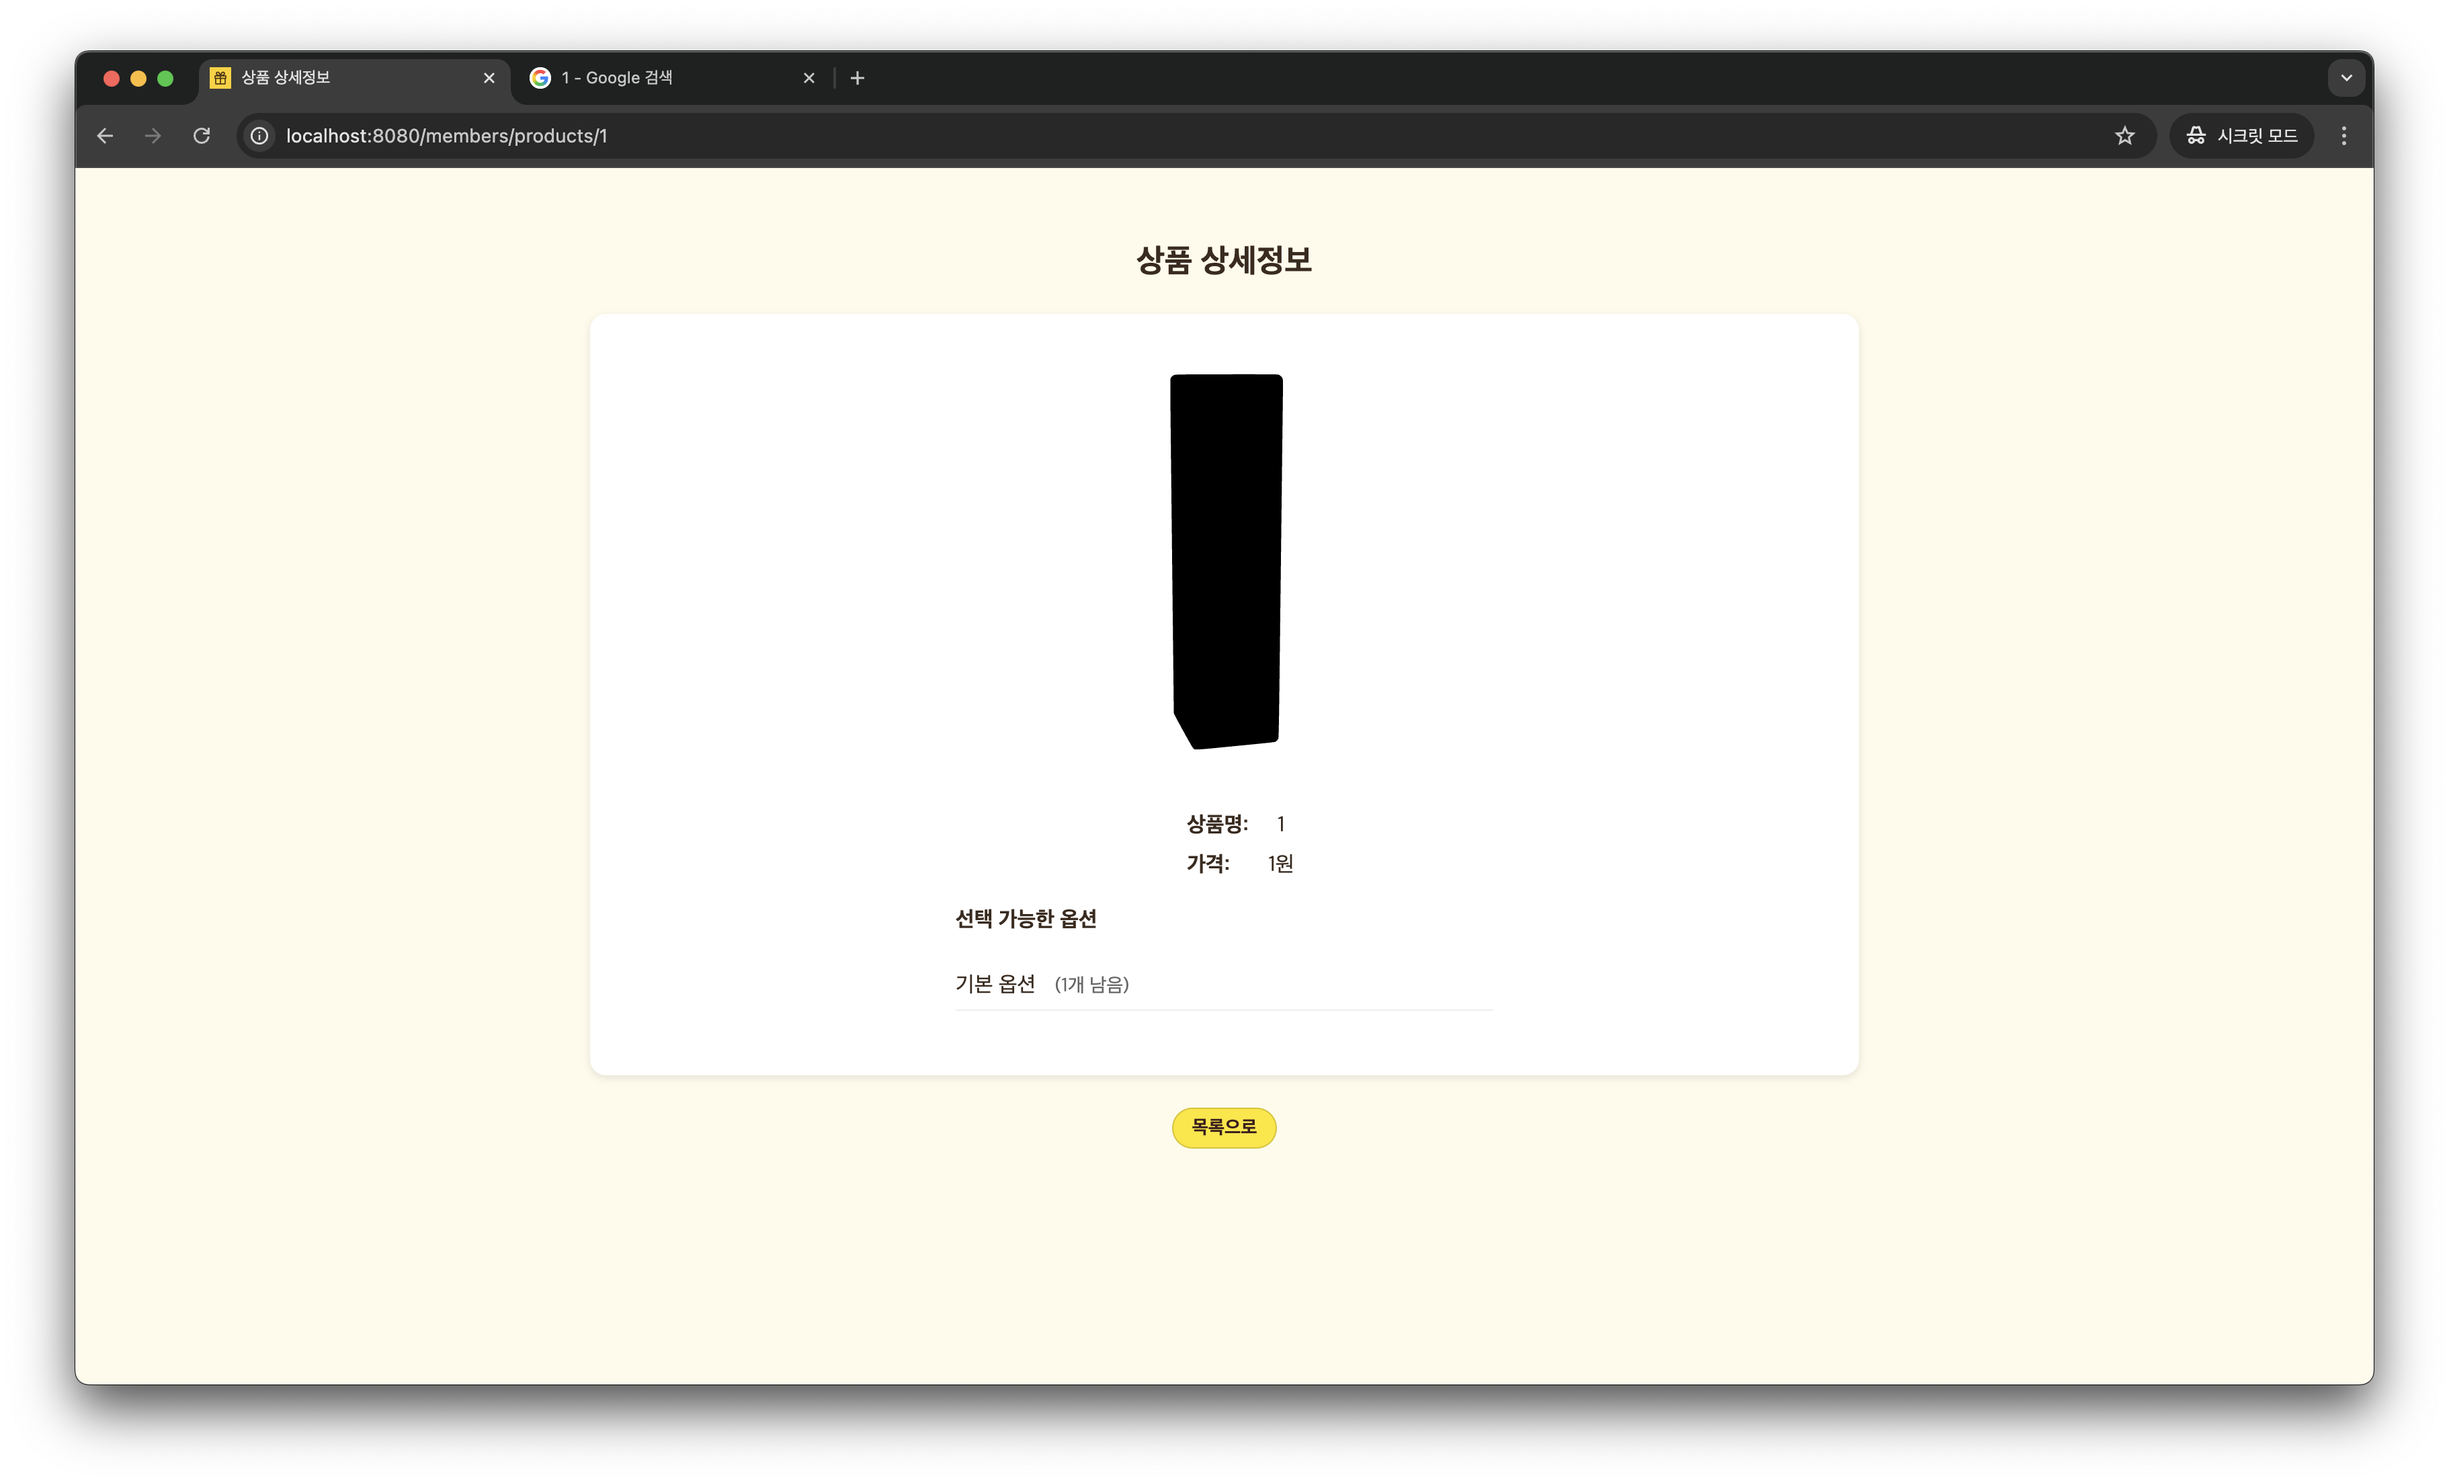
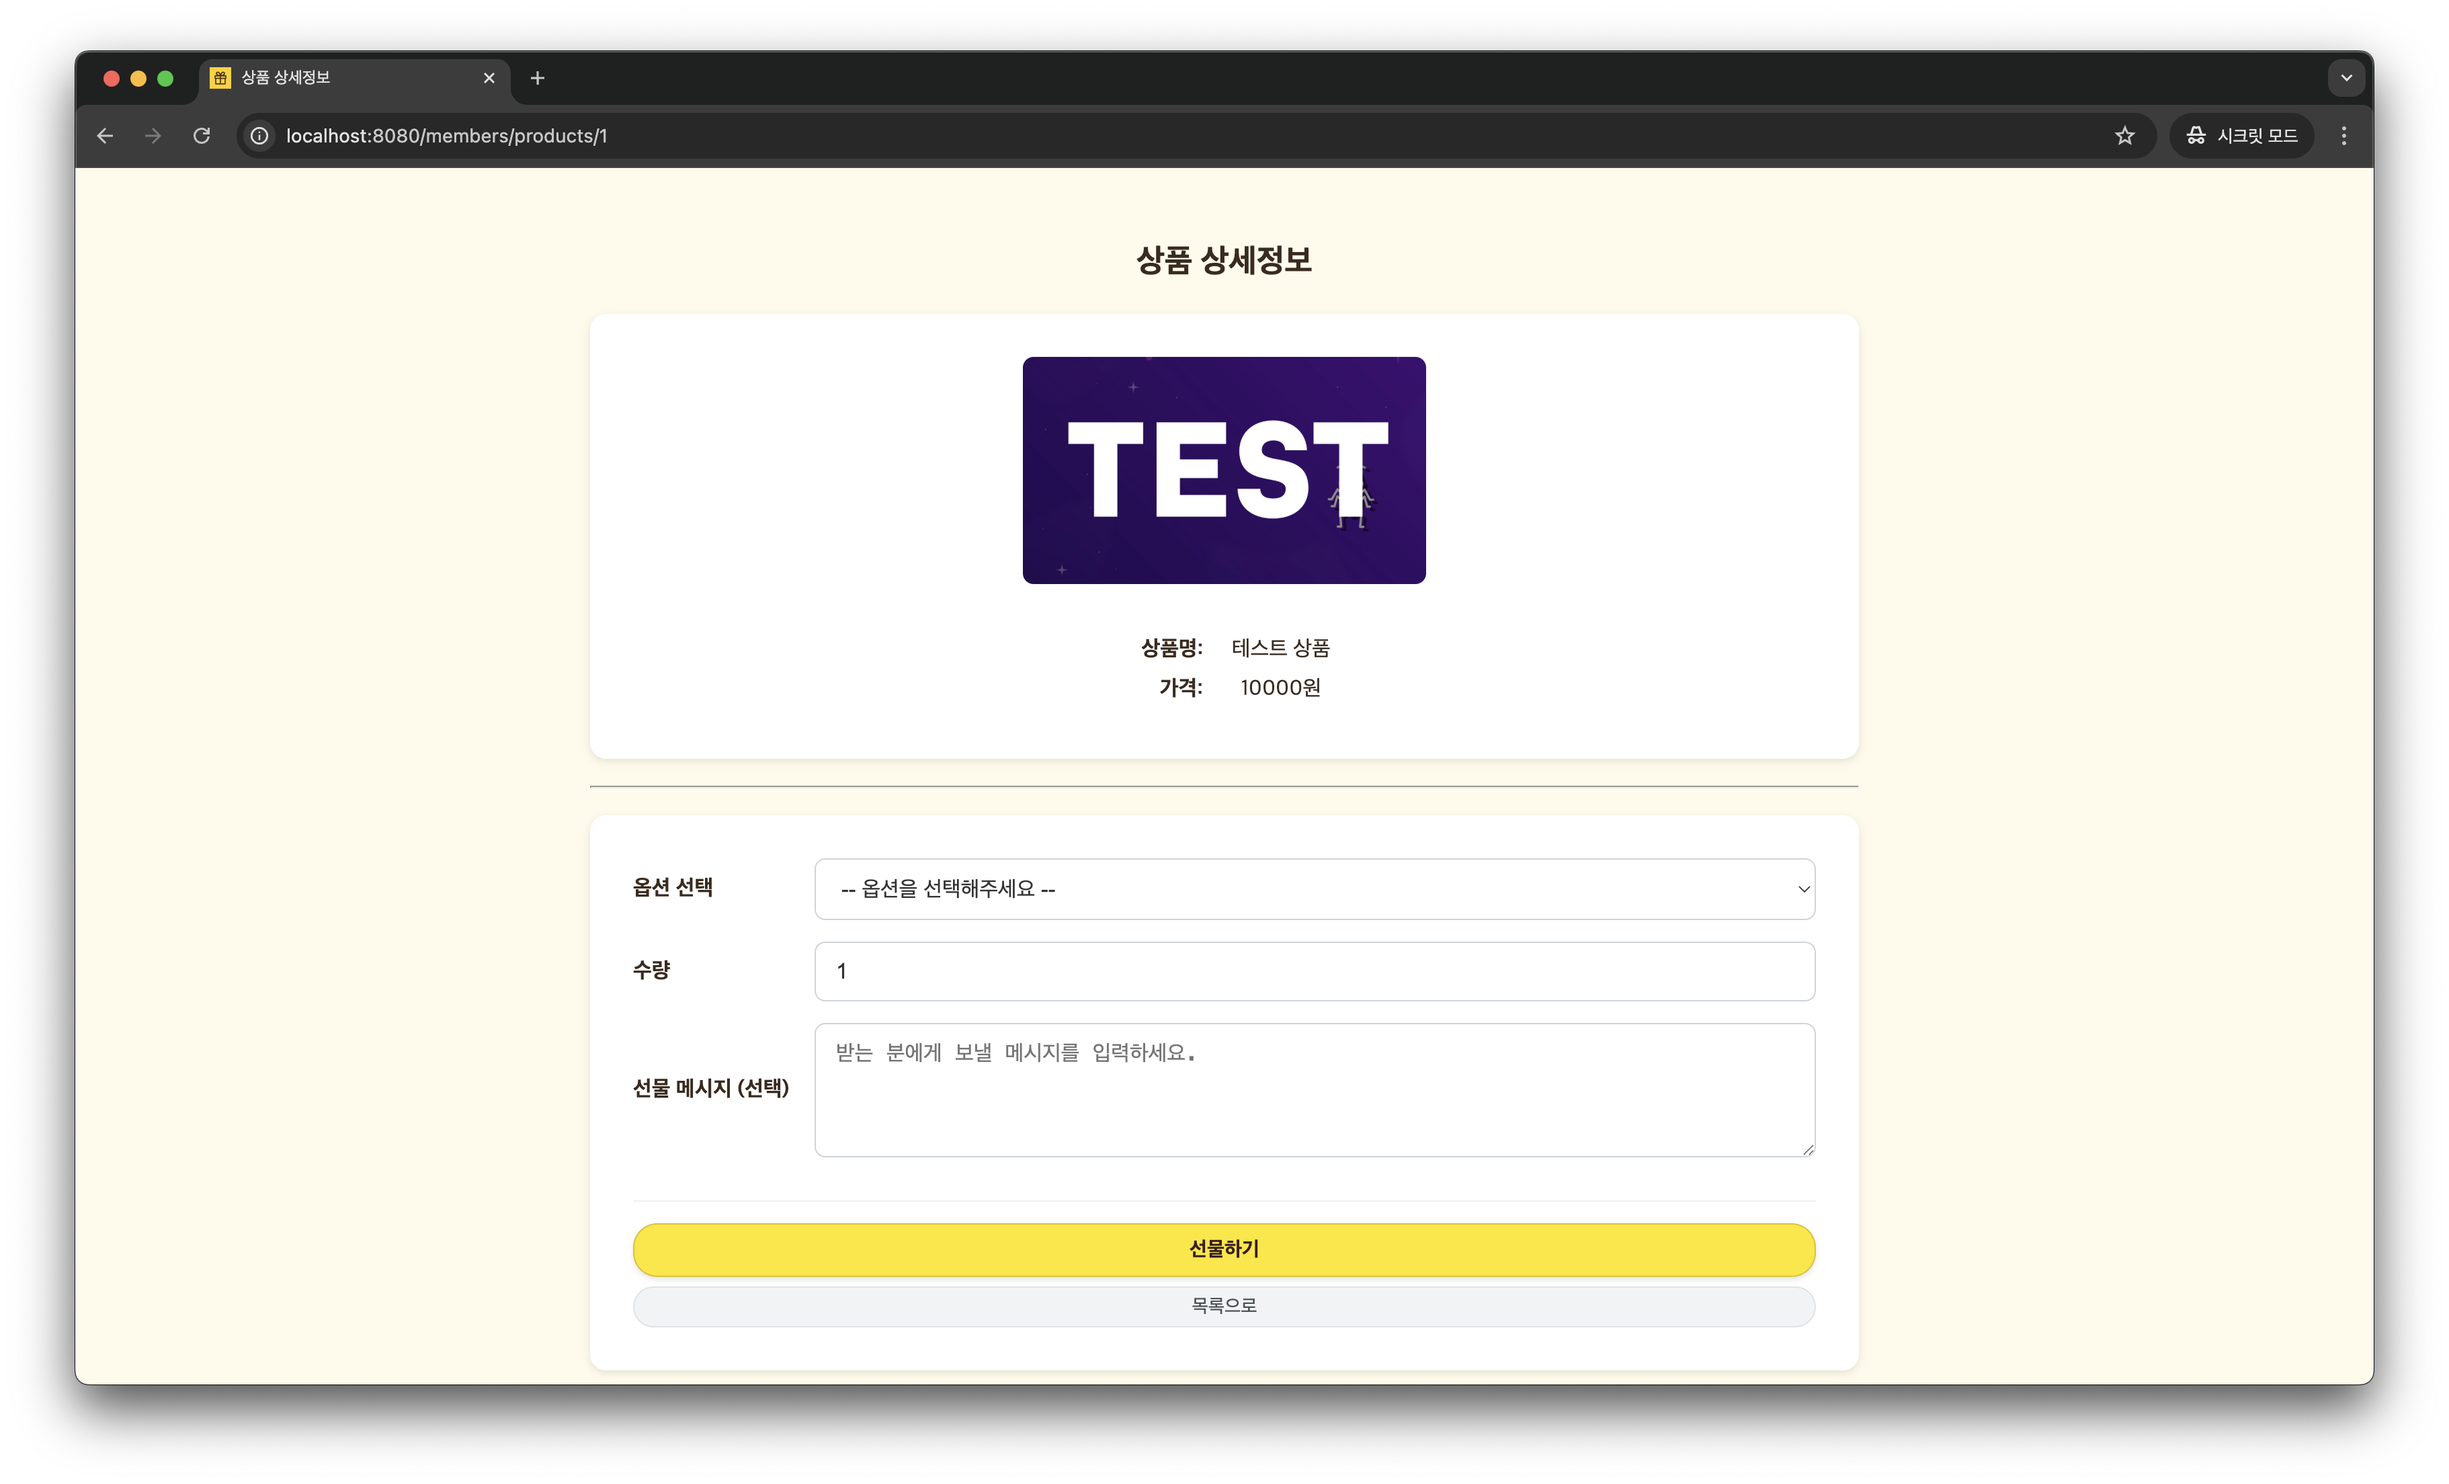
docs: README에 Order 내용 추가

diff --git a/README.md b/README.md
@@ -402,6 +402,78 @@ HTTP/1.1 204 No Content
     
 </details>
 
+# 🚚 주문 API
+
+---
+
+<details>
+<summary>🔎 완료한 주문 보기</summary>
+
+### Request
+- Header: Authorization: Bearer {JWT}
+
+```json
+GET /api/orders?page=0&size=5&sort=orderDateTime,desc HTTP/1.1
+Host: localhost:8080
+```
+
+### Response
+
+```json
+HTTP/1.1 200 OK
+Content-Type: application/json
+
+[
+    {
+        "id": 1,
+            "optionId": 1,
+            "quantity": 2,
+            "orderDateTime": "2025-07-29T12:00:00",
+            "message": "생일 축하해!"
+    },
+    {
+        "id": 2,
+        "optionId": 2,
+        "quantity": 1,
+        "orderDateTime": "2025-07-30T14:30:00",
+        "message": "추가 주문"
+    }
+]
+```
+    
+</details>
+<details>
+<summary>➕ 주문 생성</summary>
+
+### Request
+- Header: Authorization: Bearer {JWT}
+
+```json
+POST /api/orders HTTP/1.1
+Content-Type: application/json
+host: localhost:8080
+
+{
+    "optionId": 1,
+    "quantity": 2,
+    "message": "생일 축하해!"
+}
+```
+
+### Response
+
+```json
+{
+    "id": 1,
+    "optionId": 1,
+    "quantity": 2,
+    "orderDateTime": "2025-07-29T12:00:00",
+    "message": "생일 축하해!"
+}
+```
+    
+</details>
+
 # 👤 유저 화면
 
 ---
@@ -589,66 +661,107 @@ HTTP/1.1 204 No Content
 <summary>📌 DB 초기화</summary>
 
 ```sql
-drop table if exists member
-drop table if exists option
-drop table if exists product
-drop table if exists wish
-
-create table member (
-    id bigint not null auto_increment,
-    email varchar(255) not null,
-    password varchar(255) not null,
-    role enum ('ADMIN','USER') not null,
-    primary key (id)
-)
-
-create table option (
+Hibernate: 
+    drop table if exists member
+Hibernate: 
+    drop table if exists option
+Hibernate: 
+    drop table if exists orders
+Hibernate: 
+    drop table if exists product
+Hibernate: 
+    drop table if exists token
+Hibernate: 
+    drop table if exists wish
+Hibernate: 
+    create table member (
+        id bigint not null auto_increment,
+        email varchar(255) not null,
+        password varchar(255) not null,
+        role enum ('ADMIN','USER') not null,
+        primary key (id)
+    ) engine=InnoDB
+Hibernate: 
+    create table option (
         quantity integer not null,
         id bigint not null auto_increment,
         product_id bigint not null,
         name varchar(50) not null,
         primary key (id)
-)
-
-create table product (
-    id bigint not null auto_increment,
-    price bigint not null,
-    image_url varchar(255) not null,
-    name varchar(255) not null,
-    primary key (id)
-)
-
-create table wish (
-    created_date datetime(6) not null,
-    id bigint not null auto_increment,
-    member_id bigint not null,
-    product_id bigint not null,
-    primary key (id)
-)
-
-alter table member 
-   add constraint UKmbmcqelty0fbrvxp1q58dn57t unique (email)
-
-alter table option 
+    ) engine=InnoDB
+Hibernate: 
+    create table orders (
+        quantity integer not null,
+        id bigint not null auto_increment,
+        member_id bigint not null,
+        option_id bigint not null,
+        order_date_time datetime(6) not null,
+        message TEXT,
+        primary key (id)
+    ) engine=InnoDB
+Hibernate: 
+    create table product (
+        id bigint not null auto_increment,
+        price bigint not null,
+        image_url varchar(255) not null,
+        name varchar(255) not null,
+        primary key (id)
+    ) engine=InnoDB
+Hibernate: 
+    create table token (
+        id bigint not null auto_increment,
+        member_id bigint not null,
+        access_token varchar(512) not null,
+        provider varchar(255) not null,
+        primary key (id)
+    ) engine=InnoDB
+Hibernate: 
+    create table wish (
+        created_date datetime(6) not null,
+        id bigint not null auto_increment,
+        member_id bigint not null,
+        product_id bigint not null,
+        primary key (id)
+    ) engine=InnoDB
+Hibernate: 
+    alter table member 
+       add constraint UKmbmcqelty0fbrvxp1q58dn57t unique (email)
+Hibernate: 
+    alter table option 
        add constraint UKe78vjnqbmknqwm7d6k2blhhnj unique (product_id, name)
-
-alter table wish 
-   add constraint UKimrh37c61jscdegh9fi3jbpix unique (member_id, product_id)
-
-alter table option 
+Hibernate: 
+    alter table wish 
+       add constraint UKimrh37c61jscdegh9fi3jbpix unique (member_id, product_id)
+Hibernate: 
+    alter table option 
        add constraint FK5t6etuqa4wl7lyn0ysxnts7q4 
        foreign key (product_id) 
        references product (id)
-
-alter table wish 
-   add constraint FK70nrc4a6uvljrtemsn80eq1gd 
-   foreign key (member_id) 
-   references member (id)
-       
-alter table wish 
-   add constraint FKh3bvkvkslnehbxqma1x2eynqb 
-   foreign key (product_id) 
-   references product (id)
+Hibernate: 
+    alter table orders 
+       add constraint FKpktxwhj3x9m4gth5ff6bkqgeb 
+       foreign key (member_id) 
+       references member (id)
+Hibernate: 
+    alter table orders 
+       add constraint FK4nmdwvy9x1gghgpsnj8mlm974 
+       foreign key (option_id) 
+       references option (id)
+Hibernate: 
+    alter table token 
+       add constraint FK8a0sdl451qcw4ishfaxpdog0p 
+       foreign key (member_id) 
+       references member (id)
+Hibernate: 
+    alter table wish 
+       add constraint FK70nrc4a6uvljrtemsn80eq1gd 
+       foreign key (member_id) 
+       references member (id)
+Hibernate: 
+    alter table wish 
+       add constraint FKh3bvkvkslnehbxqma1x2eynqb 
+       foreign key (product_id) 
+       references product (id)
 ```
 
 </details>
@@ -747,6 +860,8 @@ alter table wish
   - 관리자/일반 사용자 로그인, 페이지 접근 권한 등 인증/인가 테스트
 - PaginationE2ETest
   - 관리자/사용자 상품 목록, 위시리스트의 페이지네이션 및 정렬 기능 테스트
+- OrderE2ETest
+  - 상품 주문 성공 테스트
 </details>
 <details>
 <summary>Domain 테스트</summary>
@@ -773,4 +888,6 @@ alter table wish
   - 상품 생성, 조회, 수정, 삭제 기능 테스트
 - WishServiceTest
   - 위시리스트 추가, 삭제 및 예외(중복, 권한 없음) 처리 테스트
+- OrderServiceTest
+  - 상품 주문 성공 및 실패(재고 부족, 존재하지 않는 회원) 테스트
 </details>
